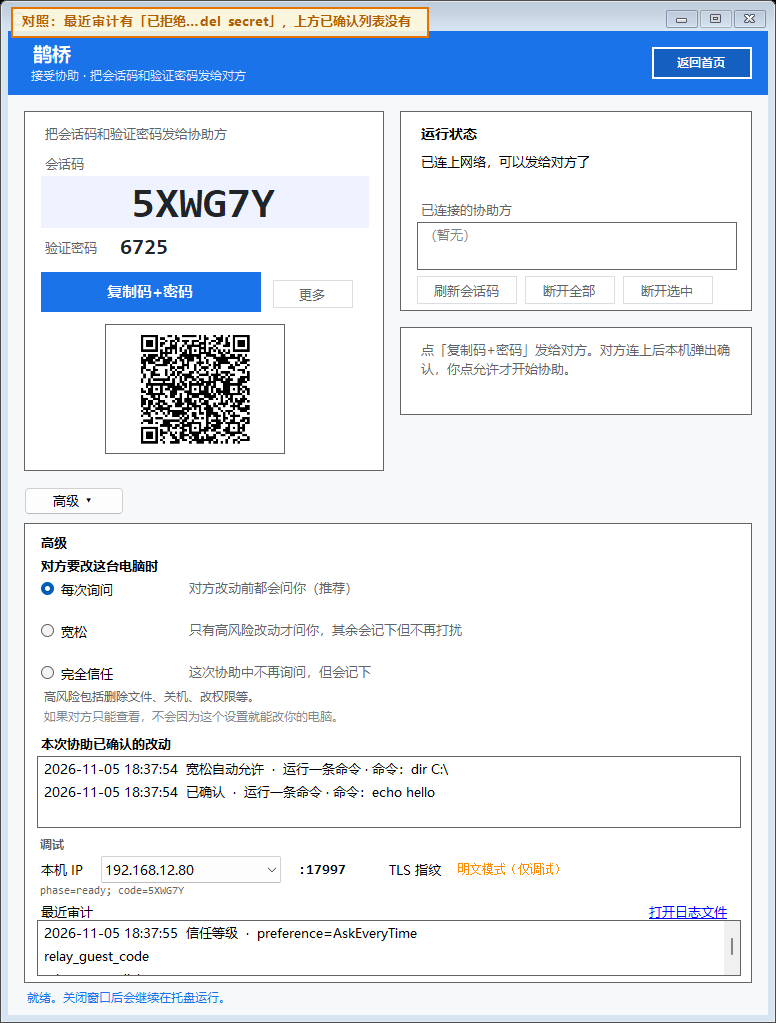
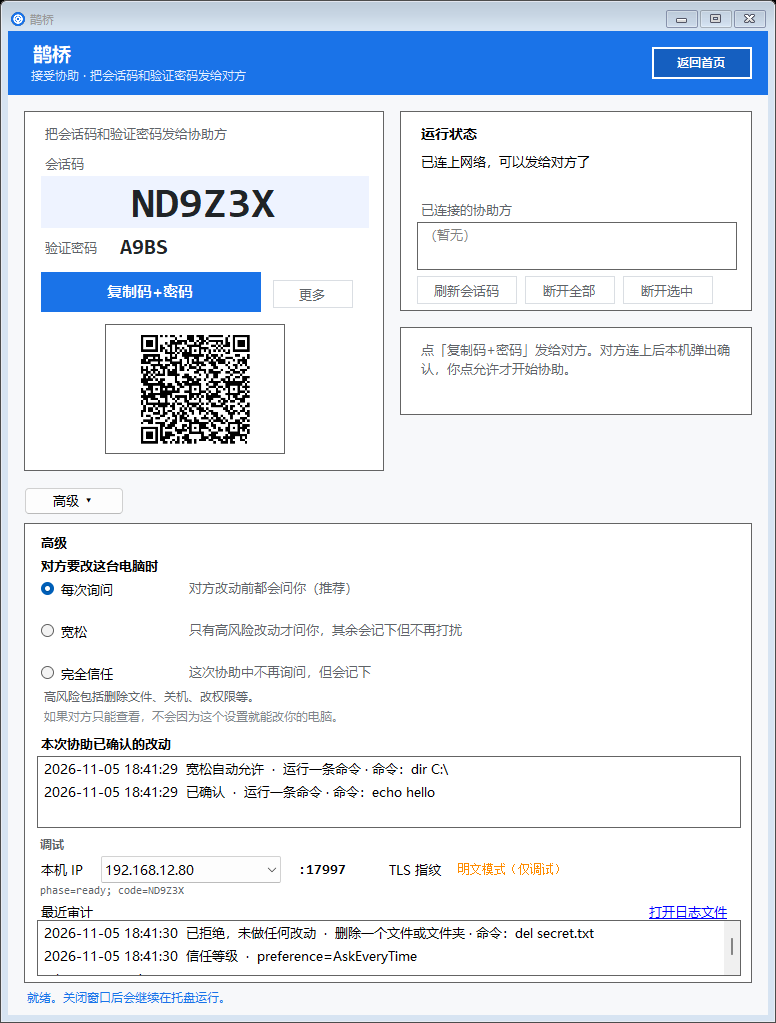
fix(R007): 拒绝对照图让「最近审计」可见已拒绝行
截图前把拒绝写回审计末尾并刷新列表；不靠标注条。

diff --git a/tools/UiShot/Program.cs b/tools/UiShot/Program.cs
@@ -11,7 +11,9 @@ internal static class Program
     [STAThread]
     private static int Main(string[] args)
     {
-        var outDir = args.Length > 0 ? args[0] : @"E:\IdeaProjects\remote-assist\docs\screenshots";
+        var outDir = args.FirstOrDefault(a => !a.StartsWith("--", StringComparison.Ordinal))
+                     ?? @"E:\IdeaProjects\remote-assist\docs\screenshots";
+        var deniedOnly = args.Any(a => string.Equals(a, "--denied-only", StringComparison.OrdinalIgnoreCase));
         Directory.CreateDirectory(outDir);
         Application.EnableVisualStyles();
         Application.SetCompatibleTextRenderingDefault(false);
@@ -25,7 +27,6 @@ internal static class Program
         var auditPath = Path.Combine(Path.GetTempPath(), "remote-assist-uishot-r007-audit.log");
         try { if (File.Exists(auditPath)) File.Delete(auditPath); } catch { /* ignore */ }
         var audit = new AuditLog(auditPath);
-        // 人话种子（对齐 WriteConfirmCopy Headline）；拒绝项不得入已确认列表
         audit.Write("tool_confirmed", "运行一条命令 · 命令：echo hello");
         audit.Write("tool_denied_user", "删除一个文件或文件夹 · 命令：del secret.txt");
         audit.Write("tool_auto_relaxed", "运行一条命令 · 命令：dir C:\\");
@@ -52,50 +53,57 @@ internal static class Program
             using var form = new MainForm(host, enableReturnHome: true);
             form.Show();
             Application.DoEvents();
-            Thread.Sleep(500);
+            Thread.Sleep(400);
             Application.DoEvents();
 
-            // —— 主界面：每次询问无提示 ——
+            if (deniedOnly)
+            {
+                form.ApplyTrustForShot(TrustLevelKind.AskEveryTime);
+                form.OpenAdvancedForShot();
+                Application.DoEvents();
+                Thread.Sleep(200);
+                Application.DoEvents();
+                PrepareDeniedVisible(audit, form);
+                SaveForm(form, Path.Combine(outDir, "r007-denied-not-in-list.png"));
+                VerifyDeniedVisible(form);
+                form.Hide();
+                Console.WriteLine("OK wrote denied-only shot");
+                return 0;
+            }
+
             form.ApplyTrustForShot(TrustLevelKind.AskEveryTime);
             Application.DoEvents();
             SaveForm(form, Path.Combine(outDir, "r007-ask-no-banner.png"));
 
-            // —— 高级展开：三档完整，默认每次询问 ——
             form.OpenAdvancedForShot();
             Application.DoEvents();
-            Thread.Sleep(250);
+            Thread.Sleep(200);
             Application.DoEvents();
             SaveForm(form, Path.Combine(outDir, "r007-advanced-ask.png"));
 
-            // —— 已确认列表（人话条目）—— 与 advanced-ask 区分：加截图角标并确保列表可见
             AnnotateAndSave(form, Path.Combine(outDir, "r007-confirmed-list.png"),
                 "已确认列表：仅含已确认 / 宽松自动允许（人话）");
 
-            // —— 拒绝不入列：角标点明拒绝命令只在「最近审计」——
-            AnnotateAndSave(form, Path.Combine(outDir, "r007-denied-not-in-list.png"),
-                "对照：最近审计有「已拒绝…del secret」，上方已确认列表没有");
+            PrepareDeniedVisible(audit, form);
+            SaveForm(form, Path.Combine(outDir, "r007-denied-not-in-list.png"));
+            VerifyDeniedVisible(form);
 
-            // —— 完全信任二次确认原文 ——
             SaveFullTrustConfirmComposite(form, Path.Combine(outDir, "r007-fulltrust-confirm.png"));
-
-            // —— 取消后仍每次询问：先模拟取消，再叠对话框并标「取消」——
             form.SimulateFullTrustCancelForShot();
             Application.DoEvents();
             SaveFullTrustCancelStays(form, Path.Combine(outDir, "r007-fulltrust-cancel-stays.png"));
 
-            // —— 主界面提示 ——
             form.CloseAdvancedForShot();
             Application.DoEvents();
-
             form.ApplyTrustForShot(TrustLevelKind.Relaxed);
             Application.DoEvents();
-            Thread.Sleep(150);
+            Thread.Sleep(120);
             Application.DoEvents();
             SaveForm(form, Path.Combine(outDir, "r007-banner-relaxed.png"));
 
             form.ApplyTrustForShot(TrustLevelKind.FullTrust);
             Application.DoEvents();
-            Thread.Sleep(150);
+            Thread.Sleep(120);
             Application.DoEvents();
             SaveForm(form, Path.Combine(outDir, "r007-banner-fulltrust.png"));
 
@@ -116,6 +124,50 @@ internal static class Program
 
         Console.WriteLine("OK wrote r007 shots to " + outDir);
         return 0;
+    }
+
+    private static void PrepareDeniedVisible(AuditLog audit, MainForm form)
+    {
+        // 写到审计末尾，确保 ReadRecent 反转后排在「最近审计」顶部可见区
+        audit.Write("tool_denied_user", "删除一个文件或文件夹 · 命令：del secret.txt");
+        form.RefreshListsForShot();
+        Application.DoEvents();
+        Thread.Sleep(80);
+        Application.DoEvents();
+    }
+
+    private static void VerifyDeniedVisible(MainForm form)
+    {
+        var auditView = FindListView(form, "recentAuditList");
+        var confirmed = FindListView(form, "confirmedChangesList");
+        if (auditView is null || confirmed is null)
+            throw new InvalidOperationException("list views not found");
+
+        var auditTexts = auditView.Items.Cast<ListViewItem>().Select(i => i.Text).ToList();
+        var confTexts = confirmed.Items.Cast<ListViewItem>().Select(i => i.Text).ToList();
+        Console.WriteLine("AUDIT_VISIBLE:");
+        foreach (var t in auditTexts.Take(5)) Console.WriteLine("  * " + t);
+        Console.WriteLine("CONFIRMED:");
+        foreach (var t in confTexts) Console.WriteLine("  * " + t);
+
+        var deniedOk = auditTexts.Any(t => t.Contains("已拒绝", StringComparison.Ordinal)
+                                           && t.Contains("del secret", StringComparison.OrdinalIgnoreCase));
+        var confClean = confTexts.All(t => !t.Contains("del secret", StringComparison.OrdinalIgnoreCase)
+                                           && !t.Contains("已拒绝", StringComparison.Ordinal));
+        Console.WriteLine($"VERIFY denied_in_audit={deniedOk} confirmed_clean={confClean}");
+        if (!deniedOk || !confClean)
+            throw new InvalidOperationException("denied-not-in-list shot evidence missing in controls");
+    }
+
+    private static ListView? FindListView(Control root, string name)
+    {
+        if (root is ListView lv && lv.Name == name) return lv;
+        foreach (Control c in root.Controls)
+        {
+            var f = FindListView(c, name);
+            if (f is not null) return f;
+        }
+        return null;
     }
 
     private static void SaveForm(Form form, string path)
@@ -168,28 +220,22 @@ internal static class Program
 
     private static void SaveFullTrustCancelStays(Form form, string path)
     {
-        // 背景：取消后仍为「每次询问」（高级展开）
         using var bmp = new Bitmap(Math.Max(1, form.Width), Math.Max(1, form.Height));
         form.DrawToBitmap(bmp, new Rectangle(0, 0, form.Width, form.Height));
-
         using var confirm = new FullTrustConfirmDialog();
         using var dlgBmp = new Bitmap(Math.Max(1, confirm.Width), Math.Max(1, confirm.Height));
         confirm.Show();
         Application.DoEvents();
         confirm.DrawToBitmap(dlgBmp, new Rectangle(0, 0, confirm.Width, confirm.Height));
         confirm.Hide();
-
         using (var g = Graphics.FromImage(bmp))
         {
             var x = Math.Max(40, (form.Width - confirm.Width) / 2);
             var y = Math.Max(80, (form.Height - confirm.Height) / 2);
             g.FillRectangle(new SolidBrush(Color.FromArgb(70, 0, 0, 0)), 0, 0, bmp.Width, bmp.Height);
             g.DrawImage(dlgBmp, x, y);
-
-            // 强调「取消」按钮区域（对话框右下）
             var cancelRect = new Rectangle(x + 290, y + 168, 90, 34);
             g.DrawRectangle(new Pen(Color.FromArgb(0x1A, 0x73, 0xE8), 3), cancelRect);
-
             using var font = new Font("Microsoft YaHei UI", 10F, FontStyle.Bold);
             const string note = "已点「取消」→ 档位仍为「每次询问」（未变成完全信任）";
             var size = g.MeasureString(note, font);
@@ -198,7 +244,6 @@ internal static class Program
             g.DrawRectangle(new Pen(Color.FromArgb(0x1A, 0x73, 0xE8), 2), Rectangle.Round(rect));
             g.DrawString(note, font, new SolidBrush(Color.FromArgb(0x17, 0x4E, 0xA6)), rect.X + 8, rect.Y + 4);
         }
-
         bmp.Save(path, ImageFormat.Png);
         Console.WriteLine($"saved {path} cancel-stays md5={Md5(bmp)}");
     }

diff --git a/src/RemoteAssist.Agent/MainForm.cs b/src/RemoteAssist.Agent/MainForm.cs
@@ -1199,6 +1199,17 @@ internal sealed class MainForm : Form
         RefreshTrustUi();
     }
 
+    /// <summary>UiShot：刷新审计与已确认列表；确保最近审计从顶部可见。</summary>
+    internal void RefreshListsForShot()
+    {
+        RefreshAudit();
+        RefreshConfirmedChanges();
+        if (_auditView.Items.Count > 0)
+            _auditView.EnsureVisible(0);
+        if (_confirmedView.Items.Count > 0)
+            _confirmedView.EnsureVisible(0);
+    }
+
     /// <summary>UiShot：同步信任档 UI（不弹二次确认）。</summary>
     internal void ApplyTrustForShot(TrustLevelKind level)
     {
